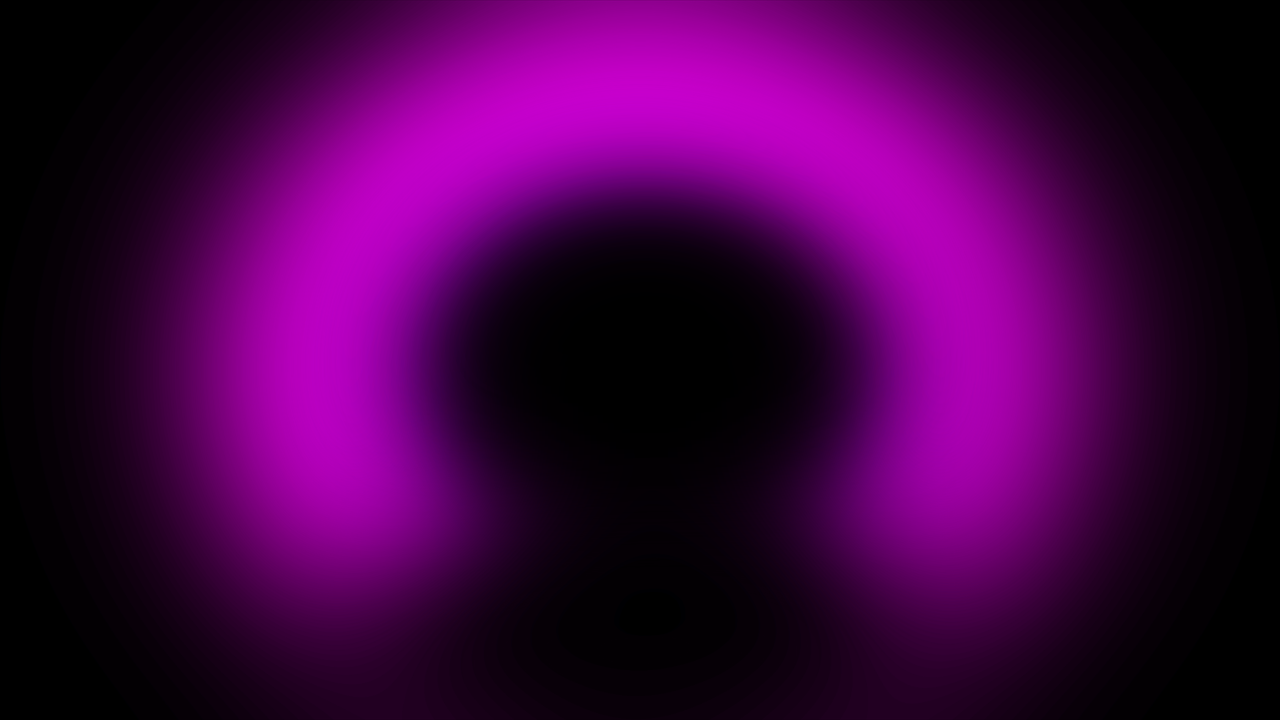
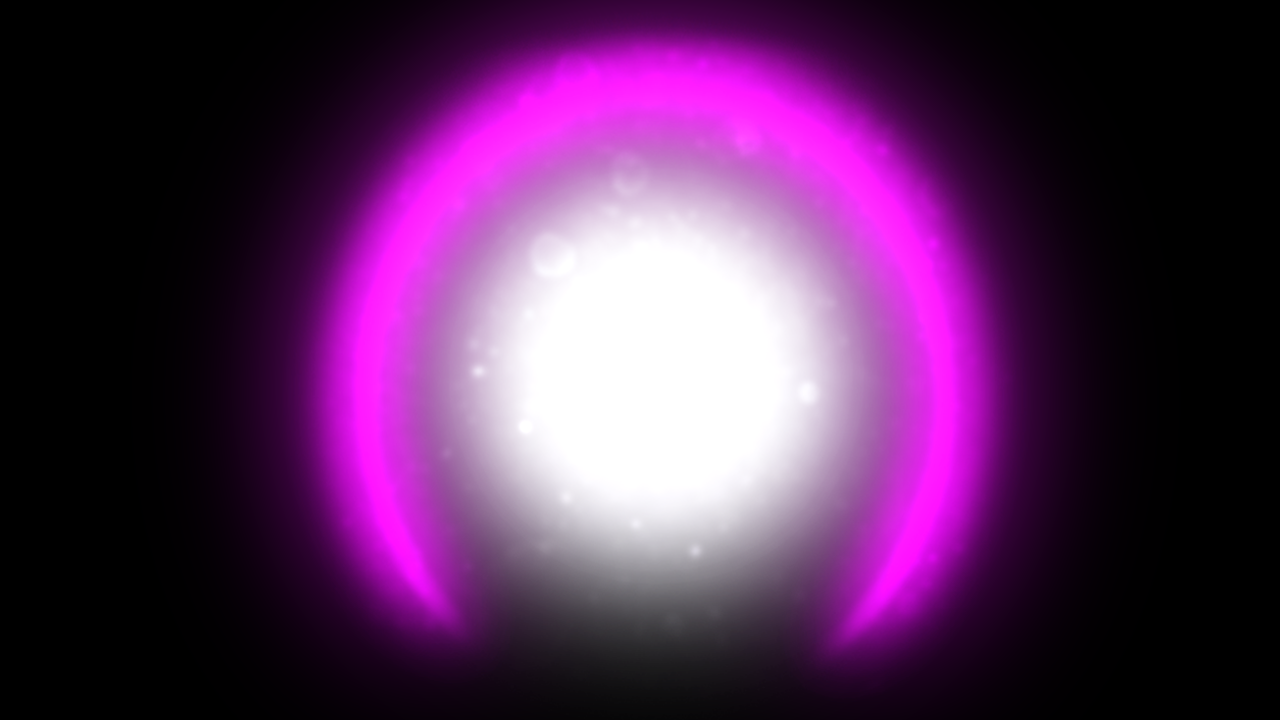
We're almost done... (for Revision 2023)

diff --git a/code/ball.cpp b/code/ball.cpp
@@ -59,7 +59,8 @@ constexpr unsigned kMaxRayLength = 1024;
 
 // height projection table
 static unsigned s_heightProj[kMaxRayLength];
-static int s_heightProjNorm[kMaxRayLength]; // for "lighting", projects on quarter of a circle, to attenuate and cull
+static int s_heightProjNorm[kMaxRayLength];     // for "lighting", projects on quarter of a circle, to attenuate and cull
+static float s_heightProjNormF[kMaxRayLength];  //
 static unsigned s_curRayLength = kMaxRayLength;
 
 // max. radius (in pixels)
@@ -117,14 +118,22 @@ static void vball_ray_beams(uint32_t *pDest, int curX, int curY, int dX, int dY)
 		beam = _mm_srli_epi16(_mm_mullo_epi16(beam, g_gradientUnp16[s_beamAtten]), 8);
 
 		// light beam & diffuse light calc.
+#if 1
 		const unsigned heightNorm = mapHeight*s_heightProjNorm[iStep] >> 8;
 		const unsigned heightNorm2 = heightNorm*heightNorm;
 
-		const unsigned diffuseLo = (heightNorm2*heightNorm)>>16;
-		const unsigned diffuseHi = heightNorm2>>8;
-		const unsigned diffuse = diffuseHi + (((diffuseLo-diffuseHi)*lowLight)>>8);
+ 		const unsigned diffuseHi = heightNorm2 >> 8;
+		const unsigned diffuseLo = diffuseHi>>1;
+
+		const unsigned diffuse = diffuseHi + ((int(diffuseLo-diffuseHi)*lowLight)>>8);
+#else
+		const float heightNormF = mapHeight*s_heightProjNormF[iStep];
+		const float heightNorm2 = heightNormF*heightNormF;
+		const unsigned diffuse = unsigned(heightNorm2/256.f);
+#endif
 
 		const __m128i litWhite = _mm_set1_epi16(diffuse);
+//		const __m128i litWhiteHalf = _mm_set1_epi16(diffuse>>1); // FIXME: hack against banding and a map that's a bit on the bright side of things
 		const __m128i beamLit = _mm_srli_epi16(_mm_mullo_epi16(beam, litWhite), 8);
 		beamAccum = _mm_adds_epu16(beamAccum, beamLit);
 
@@ -294,9 +303,16 @@ static void vball_precalc()
 
 		// cosine goes from 1 down to -1, effectively culling
 		const float cosine = cosf(angStepCos*iAngle);
-		(cosine >= 0.f)
-			? s_heightProjNorm[iAngle] = int(255.f*cosine)
-			: s_heightProjNorm[iAngle] = 0; // lighting calc. does not take kindly to negative (signed)
+		if (cosine >= 0.f)
+		{
+			s_heightProjNorm[iAngle] = int(256.f*cosine);
+//			s_heightProjNormF[iAngle] = cosine;
+		}
+		else
+		{
+			s_heightProjNorm[iAngle] = 0; // lighting calc. does not take kindly to negative (signed)
+//			s_heightProjNormF[iAngle] = 0.f;
+		}
 	}
 }
 
@@ -471,7 +487,6 @@ void Ball_Draw(uint32_t *pDest, float time, float delta)
 
 	if (true == hasBeams)
 	{
-//		SoftLight32AA(pDest, pBackground, kOutputSize, 0.4f);
 		SoftLight32A(pDest, s_pHalo, kOutputSize);
 	}
 
